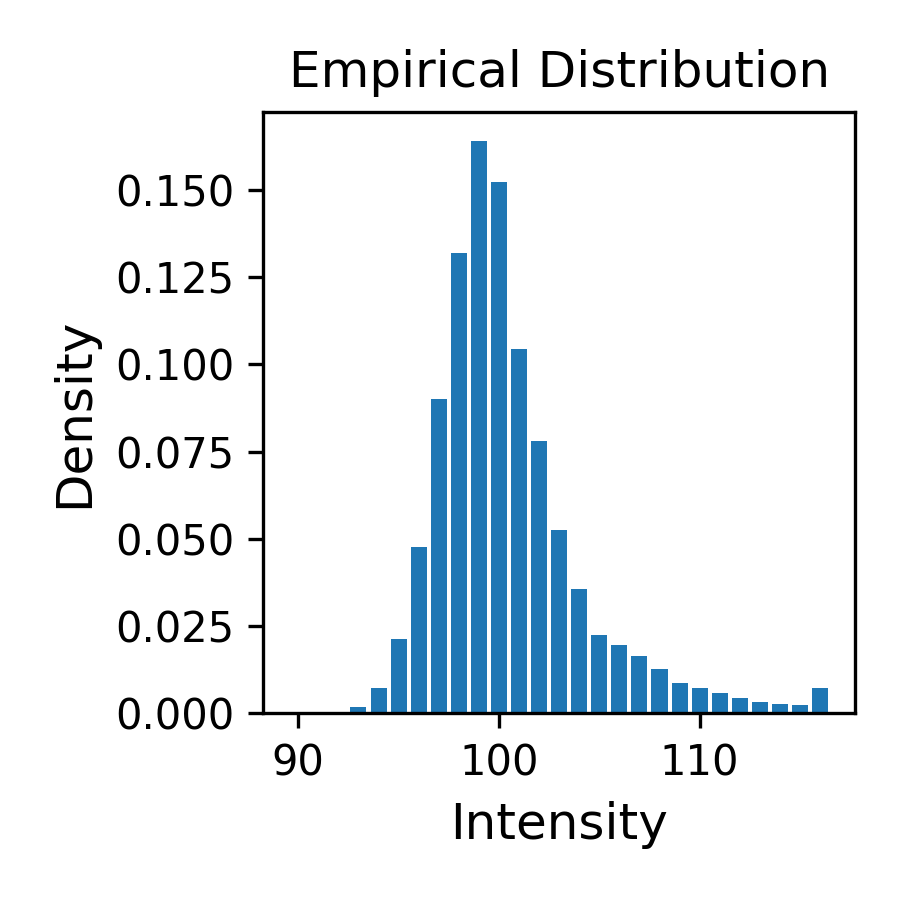
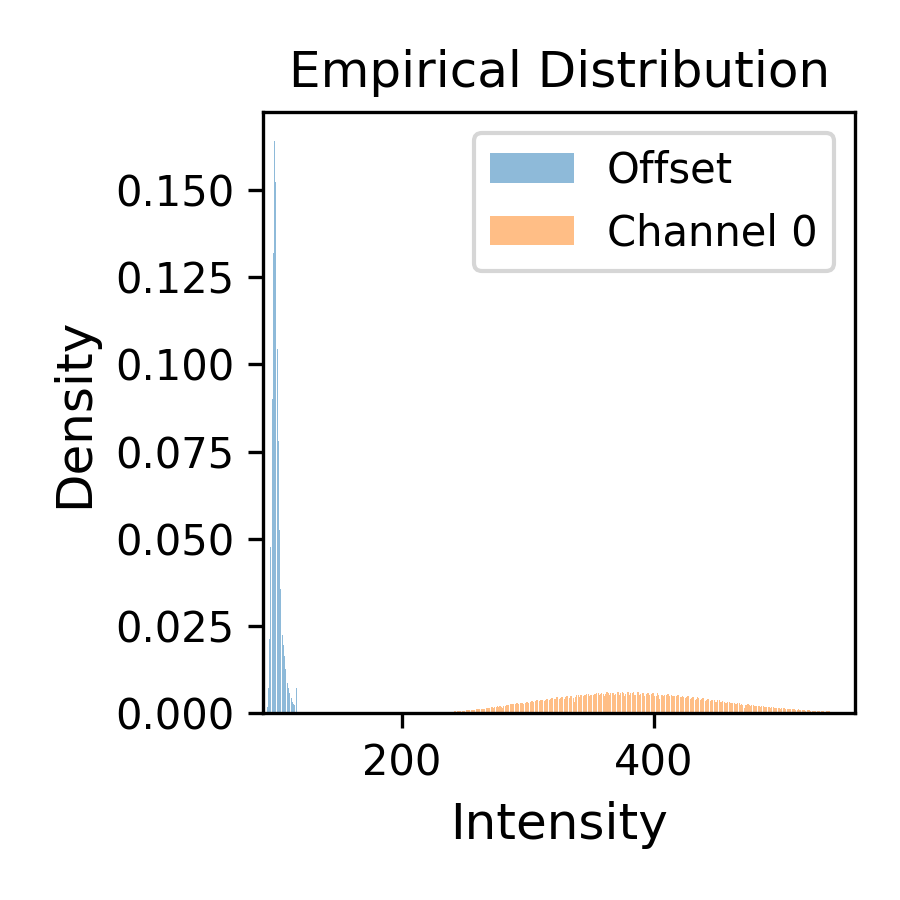
Update dataset link (#255)
* zenodo link

* Update part_ii_linux.rst

Changed region(s): [[0.4044, 0.1244, 0.9333, 0.8711], [0.28, 0.28, 0.3733, 0.8711]]

diff --git a/docs/source/tutorials/part_ii_linux.rst b/docs/source/tutorials/part_ii_linux.rst
@@ -1,7 +1,7 @@
 Part II: Tapqir analysis (Linux)
 ================================
 
-In this tutorial we will use a linux computer to analyze the Data set A in `Orbadayev et al., 2021`_. The data
+In this tutorial we will use a linux computer to analyze the Data set A in `Ordabayev et al., 2021`_. The data
 are taken from `Rosen et al., 2020`_ and have already been preprocesssed using `imscroll`_ (`Friedman et al., 2015`_).
 
 Set up the environment
@@ -40,9 +40,9 @@ Preprocessing raw input data
 This data was acquired with `Glimpse`_ and pre-processed with `imscroll`_ program (`Friedman et al., 2015`_).
 Let's download data files using `wget`_ and then unzip files::
 
-  $ wget http://centaur.biochem.brandeis.edu/Rpb1SNAP549_glimpse.zip
-  $ unzip Rpb1SNAP549_glimpse.zip && rm Rpb1SNAP549_glimpse.zip
-  $ ls Rpb1SNAP549_glimpse
+  $ wget https://zenodo.org/record/5659927/files/DatasetA_glimpse.zip
+  $ unzip DatasetA_glimpse.zip && rm DatasetA_glimpse.zip
+  $ ls DatasetA_glimpse
 
   garosen00267  green_DNA_locations.dat  green_driftlist.dat  green_nonDNA_locations.dat
 
@@ -53,13 +53,13 @@ The raw input data are:
 * ``green_nonDNA_locations.dat`` - aoiinfo file designating off-target (nonDNA) locations in the binder channel
 * ``green_driftlist.dat`` - driftlist file recording the stage movement that took place during the experiment
 
-Extract AOIs from raw images using ``tapqir glimpse`` command which will run interactively::
+Extract AOIs from raw images using ``tapqir glimpse --filepicker`` command which will run interactively::
 
-  $ tapqir glimpse
+  $ tapqir glimpse --filepicker
 
   Dataset name: Rpb1SNAP549
-  AOI image size - number of pixels along the axis [14]: 14
-  Number of color channels [1]: 1
+  AOI image size - number of pixels along the axis [14]:
+  Number of color channels [1]:
   Overwrite defaults values? [Y/n]:
   Specify frame range? [y/N]: y
   First frame to include in the analysis: 1
@@ -68,16 +68,27 @@ Extract AOIs from raw images using ``tapqir glimpse`` command which will run int
   INPUTS FOR CHANNEL #0
 
   Channel name: SNAP549
-  Path to the header/glimpse folder: Rpb1SNAP549_glimpse/garosen00267
-  Path to the on-target AOI locations file: Rpb1SNAP549_glimpse/green_DNA_locations.dat
+  Path to the header/glimpse folder:
+  /tmp/tutorial/DatasetA_glimpse/garosen00267
+  Path to the on-target AOI locations file:
+  /tmp/tutorial/DatasetA_glimpse/green_DNA_locations.dat
   Add off-target AOI locations? [y/N]: y
-  Path to the off-target control AOI locations file: Rpb1SNAP549_glimpse/green_nonDNA_locations.dat
-  Path to the driftlist file: Rpb1SNAP549_glimpse/green_driftlist.dat
-  Add on-target labels? [y/N]:
+  Path to the off-target control AOI locations file:
+  /tmp/tutorial/DatasetA_glimpse/green_nonDNA_locations.dat
+  Path to the driftlist file:
+  /tmp/tutorial/DatasetA_glimpse/green_driftlist.dat
   INFO - Processing glimpse files ...
   100%|███████████████████████████████████| 790/790 [00:07<00:00, 109.28it/s]
   INFO - Dataset: N=857 AOIs, F=790 frames, C=1 channels, P=14 pixels, P=14 pixels
   INFO - Data is saved in /tmp/tutorial/data.tpqr
+
+``--filepicker`` flag tells the program to use a file dialog for file/folder selection:
+
+.. image:: glimpse_folder.png
+   :width: 300
+
+.. image:: DNA_locations.png
+   :width: 300
 
 .. note::
 
@@ -96,9 +107,8 @@ off-target control locations, the camera offset empirical distirbution samples a
     data.tpqr            offset-distribution.png  ontarget-channel0.png
     offset-channel0.png  offtarget-channel0.png   Rpb1SNAP549_glimpse
 
-Additionally the program has saved field of view (FOV) images displaying locations of on-target and off-target AOIs in the first frame,
-location from the dark corner of the image used to create the offset empirical distribution, and the offset empirical distribution histogram.
-Make sure that AOIs are *inside* of the FOV and offset is *outside* of the FOV.
+Additionally the program has saved field of view (FOV) images displaying locations of on-target and off-target AOIs in
+the first frame (make sure that AOIs are *inside* of the FOV):
 
 .. image:: ontarget-channel0.png
    :width: 700
@@ -106,11 +116,21 @@ Make sure that AOIs are *inside* of the FOV and offset is *outside* of the FOV.
 .. image:: offtarget-channel0.png
    :width: 700
 
+location from the dark corner of the image used to create the offset empirical distribution (make sure that offset region
+is *outside* of the FOV):
+
 .. image:: offset-channel0.png
    :width: 700
 
+the intensity distribution histograms for offset and data from different channels:
+
 .. image:: offset-distribution.png
    :width: 300
+
+offset median drift (offset distribution shouldn't change over time):
+
+.. image:: offset-medians.png
+   :width: 500
 
 Data analysis
 -------------
